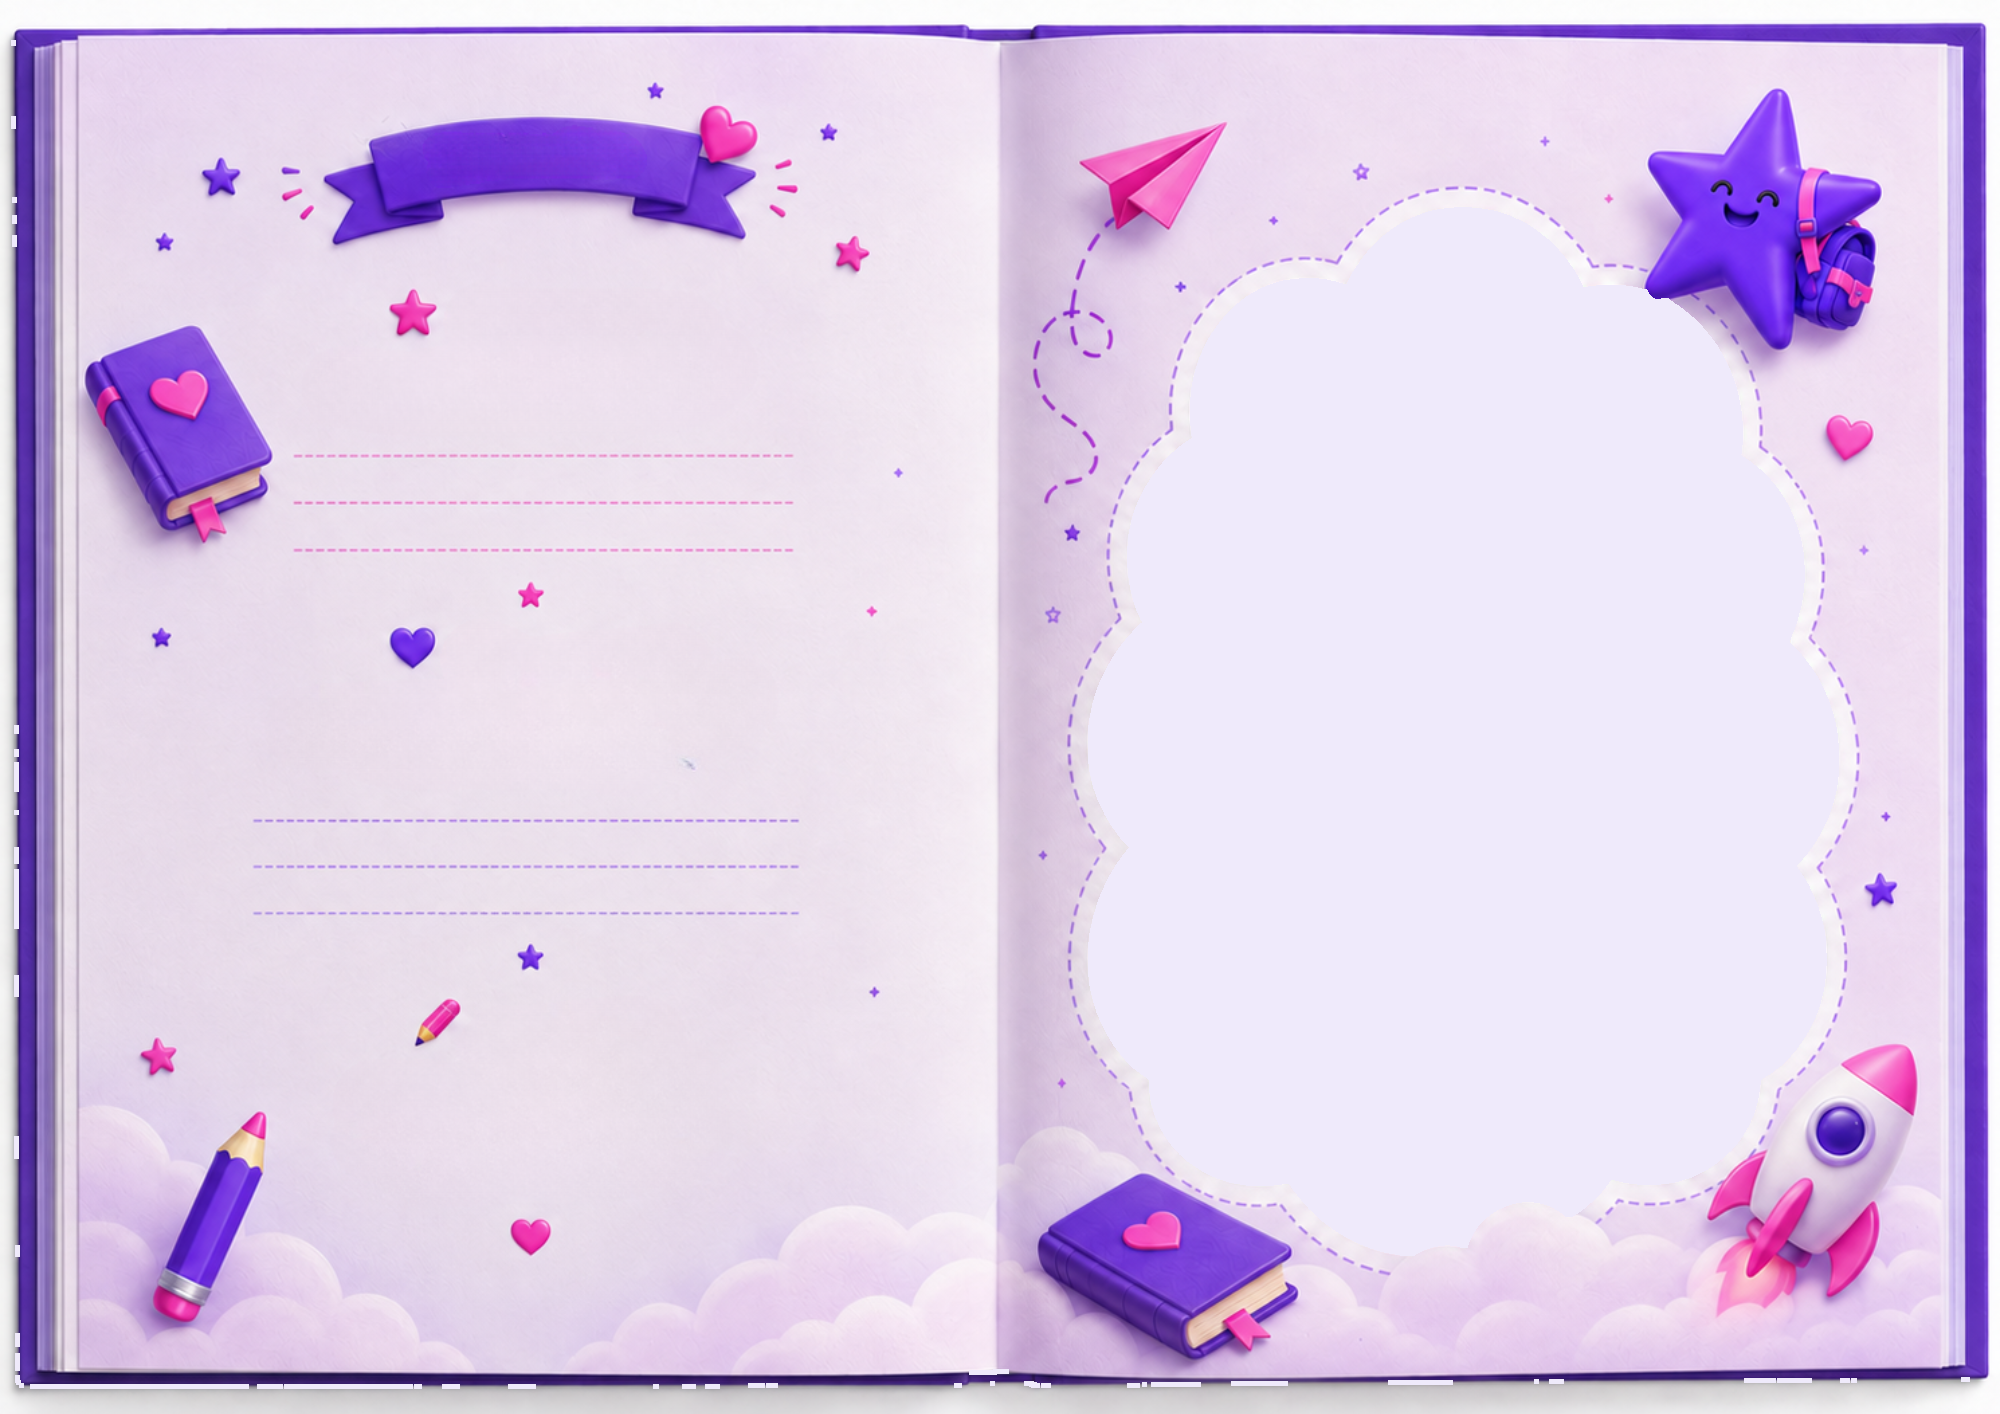
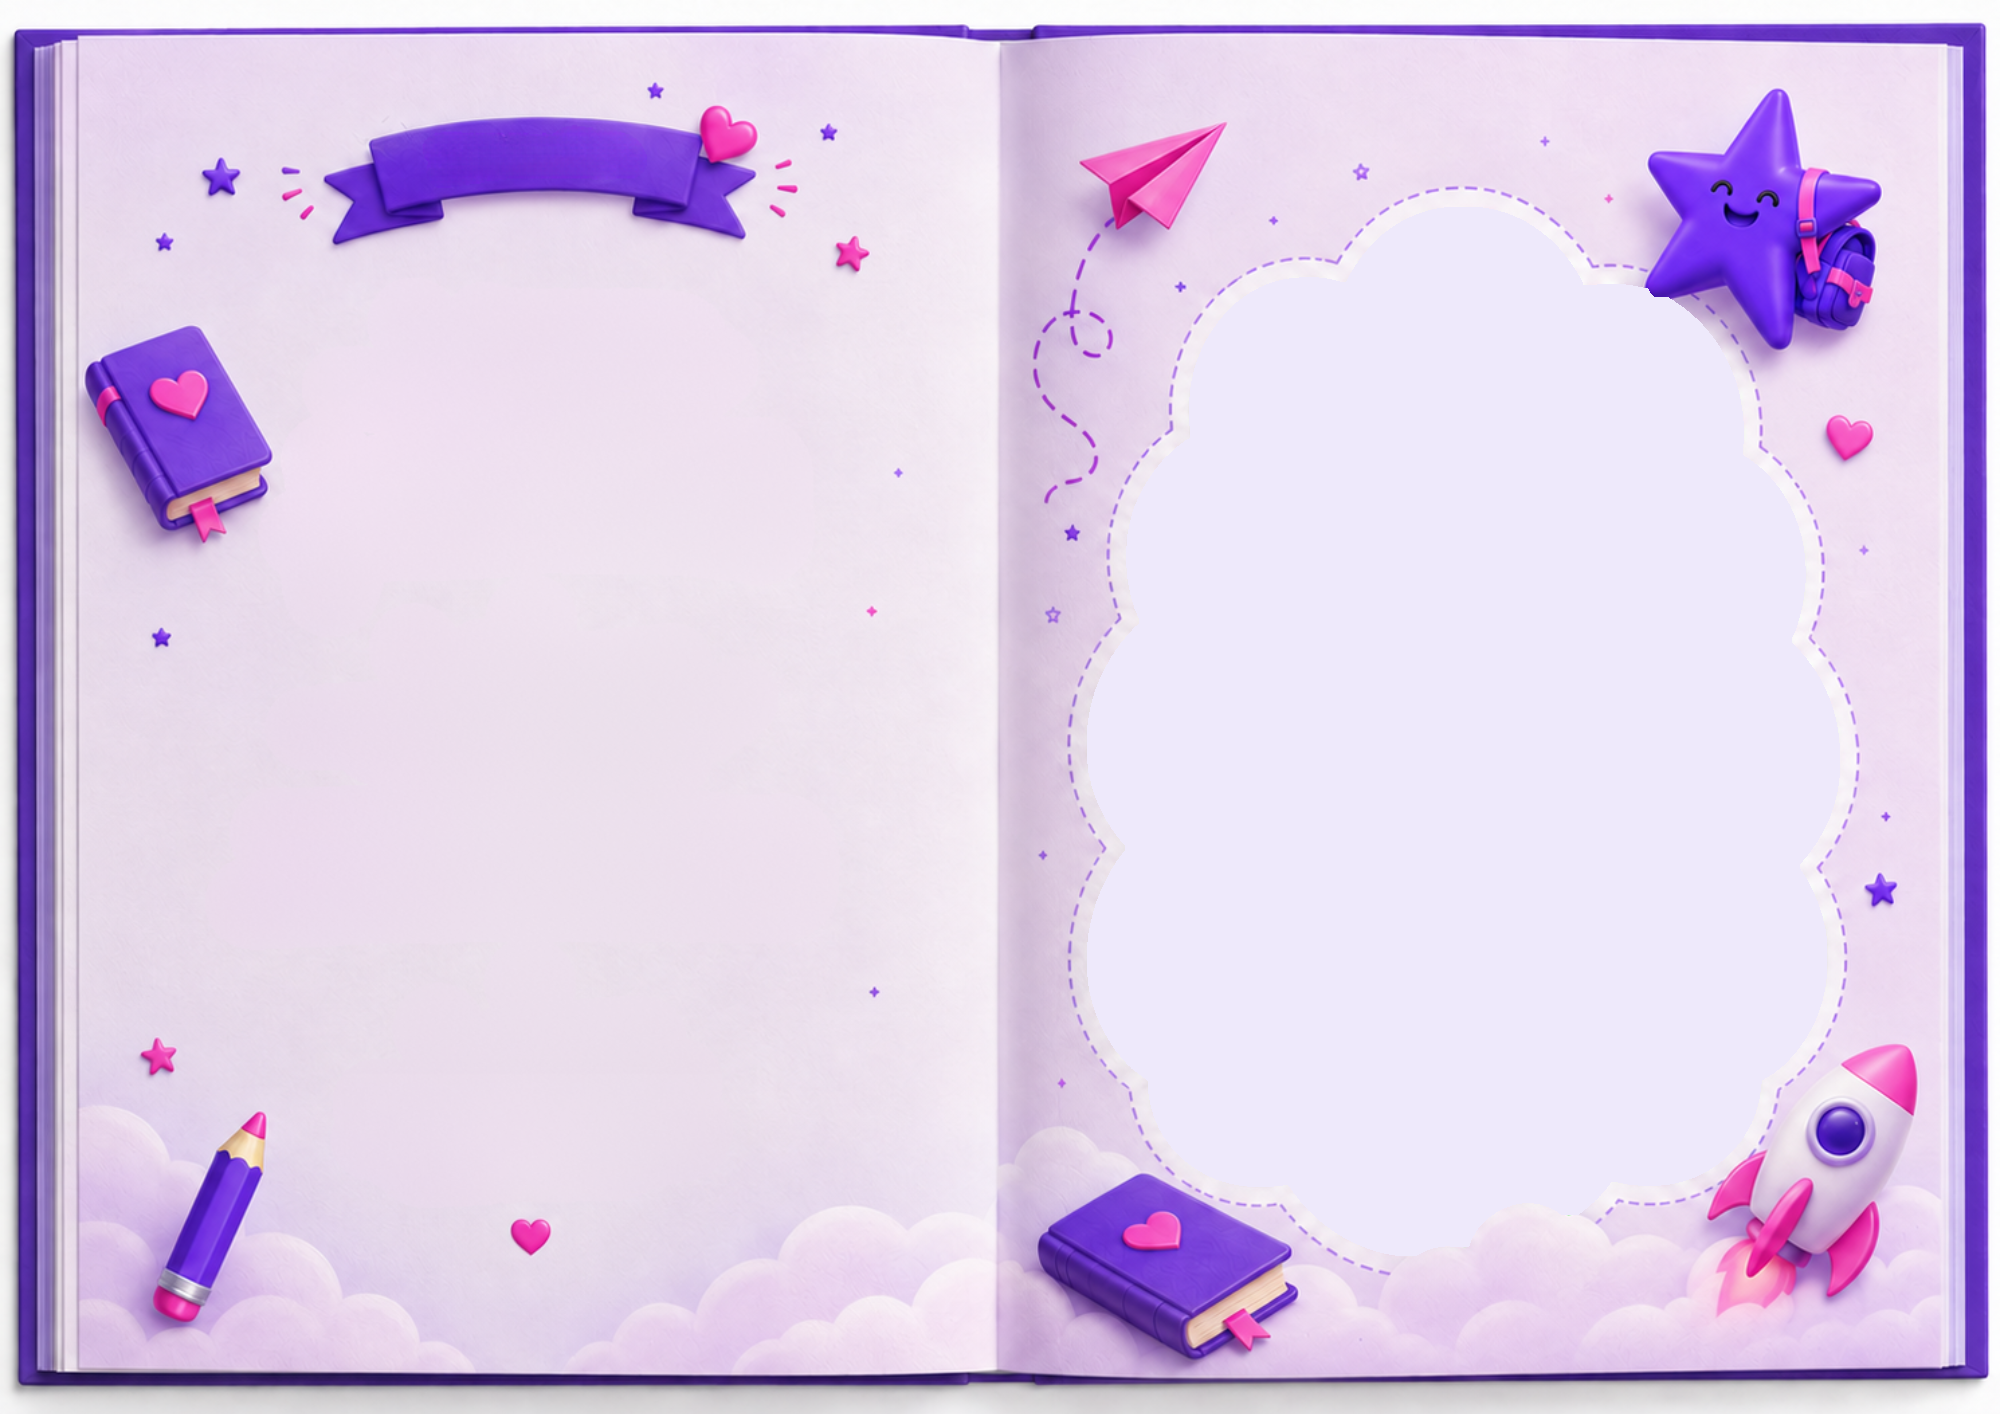
תעודות: תבנית פנימית חדשה, מסגרת תמונה חלקה ומעוגלת בדיוק על הירוק, באנר-שם מקושת גבוה יותר, קו מקווקו צבעוני מתחת לטקסט, ומספר עובד קטן בכריכה האחורית

diff --git a/certificates/index.html b/certificates/index.html
@@ -53,11 +53,11 @@
   .page.inside{background-image:url('assets/inside-blank.png');margin-top:14px}
 
   /* photo on the inside right-page frame */
-  /* photo — clipped to the exact green frame opening */
+  /* photo — clipped to the exact (smooth) green frame opening */
   .photo{
     position:absolute;left:54.5%;top:14.85%;width:37.35%;height:73.76%;
     object-fit:cover;z-index:1;background:#efe8fb;
-    clip-path:polygon(51.9% 0.0%,43.1% 1.0%,34.5% 7.3%,23.7% 7.5%,16.9% 11.6%,13.8% 22.1%,5.9% 29.6%,7.1% 39.8%,0.0% 49.8%,1.1% 56.0%,5.2% 60.7%,0.7% 67.9%,0.3% 74.5%,10.0% 88.3%,15.8% 92.1%,26.9% 93.1%,33.9% 98.0%,41.2% 99.9%,50.2% 99.0%,56.1% 95.0%,64.7% 96.1%,69.5% 92.7%,82.7% 91.6%,95.6% 78.8%,98.1% 73.3%,94.4% 62.5%,99.1% 56.9%,99.7% 50.5%,93.4% 41.7%,94.4% 30.6%,86.7% 23.7%,85.1% 15.1%,77.4% 8.8%,65.7% 7.6%,60.5% 2.7%);
+    clip-path:url(#frame);
   }
 
   /* static "משפחת סלקום" letter on the back cover */
@@ -69,29 +69,36 @@
   .coverletter p{margin:0 0 .8em}
   .coverletter p:last-child{margin-bottom:0}
 
-  /* text overlays (left page) */
-  .ovl{position:absolute;z-index:2;direction:rtl;line-height:1.3}
-  .banner{ /* name ribbon */
-    position:absolute;z-index:2;direction:rtl;
-    left:16.2%;width:20.5%;top:7.6%;height:9.2%;
-    display:flex;align-items:center;justify-content:center;text-align:center;
-    color:#fff;font-family:'Varela Round','Fredoka','Assistant','Segoe UI',Arial,sans-serif;font-size:2.5cqw;
-    text-shadow:0 2px 5px rgba(58,10,90,.5);
-  }
-  .col{ /* shared right-aligned text column */
-    right:60.5%;width:27%;text-align:right;
-  }
-  .h{font-family:'Varela Round','Fredoka','Assistant','Segoe UI',Arial,sans-serif;font-weight:700;font-size:2.2cqw;margin:0}
-  .h1{top:26.5%;color:var(--pink)}
-  .h2{top:44%;color:var(--purple)}
-  .h3{top:61%;color:var(--pink)}
-  .b{font-size:1.6cqw;color:var(--body);overflow:hidden}
-  .b1{top:30.2%;height:12%}
-  .b2{top:47.7%;height:12%}
-  .b3{top:64.7%;height:12%}
+  /* name banner — arched text on the ribbon */
+  .banner{position:absolute;z-index:2;left:15.6%;width:22.3%;top:5.2%;height:11%;overflow:visible}
+  .banner svg{width:100%;height:100%;overflow:visible;filter:drop-shadow(0 2px 3px rgba(58,10,90,.45))}
+  .bannertext{font-family:'Varela Round','Fredoka','Assistant','Segoe UI',Arial,sans-serif;
+    font-weight:700;font-size:38px;fill:#fff}
+
+  /* left-page content sections (header + text + colored dashed underline) */
+  .sec{position:absolute;z-index:2;right:60.3%;width:27.6%;direction:rtl;text-align:right}
+  .sec1{top:25.5%}.sec2{top:43.5%}.sec3{top:61.5%}
+  .h{font-family:'Varela Round','Fredoka','Assistant','Segoe UI',Arial,sans-serif;font-weight:700;font-size:2.15cqw;margin:0 0 .35em}
+  .h1{color:var(--pink)}.h2{color:var(--purple)}.h3{color:var(--pink)}
+  .b{font-size:1.55cqw;color:var(--body);line-height:1.5;max-height:9.6cqw;overflow:hidden}
+  .uline{margin-top:.5em;height:.5cqw;
+    background:repeating-linear-gradient(90deg,var(--c1) 0 1.1cqw,transparent 1.1cqw 2cqw,var(--c2) 2cqw 3.1cqw,transparent 3.1cqw 4cqw);
+    border-radius:2px}
+  .u1{--c1:#FF1B9C;--c2:#8B3FF0}
+  .u2{--c1:#8B3FF0;--c2:#FF4DB4}
+  .u3{--c1:#FF1B9C;--c2:#6322D6}
+
+  /* tiny employee number on the back cover */
+  .empno{position:absolute;z-index:2;left:8%;width:34%;bottom:1.3%;text-align:center;
+    direction:rtl;color:#9a8bc0;font-size:.72cqw;letter-spacing:.2px}
 </style>
 </head>
 <body>
+
+<!-- smooth clip matching the exact green frame opening (objectBoundingBox 0..1) -->
+<svg width="0" height="0" style="position:absolute" aria-hidden="true"><defs>
+  <clipPath id="frame" clipPathUnits="objectBoundingBox"><path d="M 0.4779 0.0000 C 0.4502 0.0024 0.4216 0.0119 0.3990 0.0239 C 0.3765 0.0359 0.3667 0.0641 0.3427 0.0719 C 0.3187 0.0797 0.2817 0.0656 0.2550 0.0709 C 0.2282 0.0763 0.2009 0.0896 0.1821 0.1042 C 0.1632 0.1189 0.1497 0.1390 0.1419 0.1587 C 0.1341 0.1784 0.1464 0.2041 0.1353 0.2224 C 0.1242 0.2406 0.0892 0.2506 0.0753 0.2682 C 0.0615 0.2858 0.0532 0.3076 0.0522 0.3277 C 0.0513 0.3479 0.0743 0.3701 0.0696 0.3890 C 0.0649 0.4079 0.0357 0.4227 0.0241 0.4413 C 0.0125 0.4599 0.0018 0.4803 0.0000 0.5006 C -0.0018 0.5209 0.0052 0.5435 0.0134 0.5630 C 0.0216 0.5826 0.0497 0.5995 0.0491 0.6178 C 0.0484 0.6360 0.0173 0.6528 0.0094 0.6724 C 0.0014 0.6920 -0.0021 0.7155 0.0013 0.7356 C 0.0048 0.7558 0.0168 0.7758 0.0302 0.7935 C 0.0436 0.8112 0.0674 0.8244 0.0817 0.8418 C 0.0960 0.8592 0.0979 0.8833 0.1160 0.8980 C 0.1341 0.9127 0.1636 0.9234 0.1902 0.9300 C 0.2168 0.9366 0.2505 0.9292 0.2756 0.9375 C 0.3006 0.9459 0.3160 0.9699 0.3405 0.9802 C 0.3649 0.9904 0.3949 0.9980 0.4223 0.9990 C 0.4497 1.0000 0.4799 0.9946 0.5047 0.9862 C 0.5294 0.9779 0.5458 0.9541 0.5707 0.9492 C 0.5957 0.9443 0.6289 0.9599 0.6546 0.9569 C 0.6803 0.9538 0.6990 0.9369 0.7251 0.9310 C 0.7512 0.9251 0.7861 0.9301 0.8112 0.9214 C 0.8363 0.9128 0.8593 0.8953 0.8755 0.8792 C 0.8917 0.8630 0.8939 0.8419 0.9086 0.8248 C 0.9233 0.8077 0.9519 0.7948 0.9640 0.7765 C 0.9761 0.7583 0.9816 0.7356 0.9813 0.7152 C 0.9809 0.6949 0.9639 0.6736 0.9621 0.6545 C 0.9602 0.6354 0.9642 0.6193 0.9701 0.6005 C 0.9759 0.5818 0.9942 0.5625 0.9973 0.5422 C 1.0005 0.5220 0.9975 0.4986 0.9889 0.4791 C 0.9804 0.4596 0.9525 0.4441 0.9461 0.4254 C 0.9397 0.4068 0.9511 0.3873 0.9505 0.3672 C 0.9499 0.3471 0.9514 0.3240 0.9424 0.3048 C 0.9335 0.2856 0.9089 0.2699 0.8967 0.2520 C 0.8844 0.2341 0.8779 0.2163 0.8688 0.1974 C 0.8597 0.1786 0.8564 0.1565 0.8420 0.1390 C 0.8276 0.1215 0.8057 0.1034 0.7824 0.0925 C 0.7591 0.0816 0.7268 0.0812 0.7021 0.0738 C 0.6773 0.0665 0.6566 0.0591 0.6338 0.0484 C 0.6110 0.0377 0.5911 0.0176 0.5651 0.0096 C 0.5391 0.0015 0.5056 -0.0024 0.4779 0.0000 Z"/></clipPath>
+</defs></svg>
 
 <div class="bar">
   <h1>מחולל תעודות · סיפור חדש מתחיל</h1>
@@ -161,13 +168,17 @@
   function certificate(rec){
     const wrap=document.createElement('div'); wrap.className='cert';
 
-    // COVER (static for everyone) — with the "משפחת סלקום" letter
+    // COVER (static letter for everyone) + tiny employee number
     const cover=document.createElement('div'); cover.className='page cover';
     cover.innerHTML='<div class="coverletter">'+
       '<p>אנחנו רגילים לחבר בין אנשים, אבל הפעם אנחנו חוגגים חיבור מסוג אחר – החיבור של הילדים שלנו לעולם חדש של למידה, חברים, חוויות וגילויים.</p>'+
       '<p>המעבר לכיתה א\' הוא רגע משמעותי ומרגש. רגע שבו כל ילד מתחיל לכתוב פרק חדש בסיפור החיים שלו.</p>'+
       '<p>כדי להפוך את היום הזה לבלתי נשכח, נשמח שתשתפו אותנו בכמה מילים על הילד או הילדה שלכם – החוזקות שמאפיינות אותם, החלומות שלהם והברכה שתרצו ללוות אותם איתה בדרך החדשה.</p>'+
       '</div>';
+    if(rec.employeeId){
+      const emp=document.createElement('div'); emp.className='empno';
+      emp.textContent='מס׳ עובד: '+rec.employeeId; cover.appendChild(emp);
+    }
     wrap.appendChild(cover);
 
     // INSIDE (personalized)
@@ -183,20 +194,34 @@
     else { img.classList.add('empty'); }
     inside.appendChild(img);
 
-    inside.appendChild(ovl('banner','על '+name));
-    inside.appendChild(ovl('ovl col h h1','החוזקות של '+name));
-    inside.appendChild(ovl('ovl col b b1',rec.strengths));
-    inside.appendChild(ovl('ovl col h h2','החלומות של '+name));
-    inside.appendChild(ovl('ovl col b b2',rec.dreams));
-    inside.appendChild(ovl('ovl col h h3','הברכה שלנו'));
-    inside.appendChild(ovl('ovl col b b3',rec.blessing));
+    inside.appendChild(bannerEl('על '+name, certN));
+    inside.appendChild(section('sec1','h1','u1','החוזקות של '+name, rec.strengths));
+    inside.appendChild(section('sec2','h2','u2','החלומות של '+name, rec.dreams));
+    inside.appendChild(section('sec3','h3','u3','הברכה שלנו', rec.blessing));
+    certN++;
 
     wrap.appendChild(inside);
     return wrap;
   }
-  function ovl(cls,text){
-    const d=document.createElement('div'); d.className=cls;
-    d.textContent=text||''; return d;
+  let certN=0;
+  const SVGNS='http://www.w3.org/2000/svg';
+  function bannerEl(text,uid){
+    const svg=document.createElementNS(SVGNS,'svg');
+    svg.setAttribute('viewBox','0 0 320 92'); svg.setAttribute('preserveAspectRatio','xMidYMid meet');
+    const p=document.createElementNS(SVGNS,'path');
+    p.setAttribute('id','arc'+uid); p.setAttribute('d','M20 60 Q160 24 300 60'); p.setAttribute('fill','none');
+    svg.appendChild(p);
+    const t=document.createElementNS(SVGNS,'text'); t.setAttribute('class','bannertext'); t.setAttribute('text-anchor','middle');
+    const tp=document.createElementNS(SVGNS,'textPath'); tp.setAttribute('href','#arc'+uid); tp.setAttribute('startOffset','50%');
+    tp.textContent=text; t.appendChild(tp); svg.appendChild(t);
+    const w=document.createElement('div'); w.className='banner'; w.appendChild(svg); return w;
+  }
+  function section(secCls,hCls,uCls,head,body){
+    const s=document.createElement('div'); s.className='sec '+secCls;
+    const h=document.createElement('div'); h.className='h '+hCls; h.textContent=head;
+    const b=document.createElement('div'); b.className='b'; b.textContent=body||'';
+    const u=document.createElement('div'); u.className='uline '+uCls;
+    s.appendChild(h); s.appendChild(b); s.appendChild(u); return s;
   }
 
   /* ---------- shrink body text to fit its box (also before printing) ---------- */
@@ -225,6 +250,7 @@
       dreams:colIndex(headers,['חלומות','חלום']),
       blessing:colIndex(headers,['ברכה']),
       photo:colIndex(headers,['תמונה','תמונת','photo']),
+      employeeId:colIndex(headers,['מספר עובד','מס עובד','עובד','employee']),
     };
     if(idx.fname<0){status.textContent='לא זוהתה עמודת "שם הילד/ה". בדקו את שורת הכותרות.';return;}
     let n=0;
@@ -237,6 +263,7 @@
         dreams:idx.dreams>-1?(row[idx.dreams]||'').trim():'',
         blessing:idx.blessing>-1?(row[idx.blessing]||'').trim():'',
         photo:idx.photo>-1?(row[idx.photo]||'').trim():'',
+        employeeId:idx.employeeId>-1?(row[idx.employeeId]||'').replace(/^'/,'').trim():'',
       };
       if(!rec.fname && !rec.strengths && !rec.blessing) continue;
       rec.photoKey=normName(rec.fname+rec.lname);